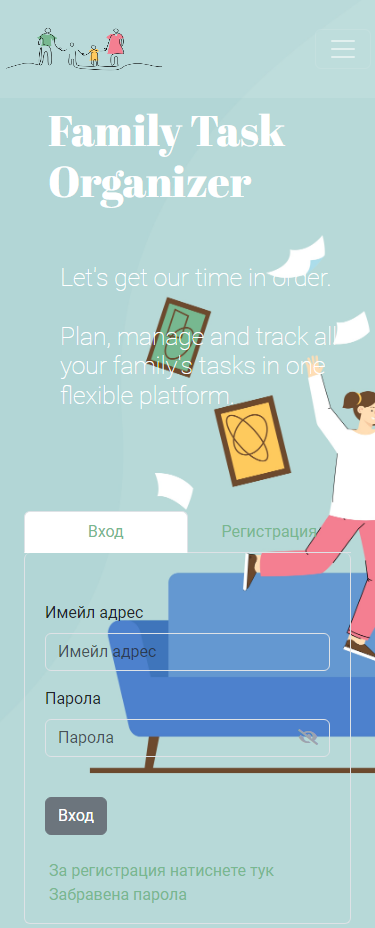
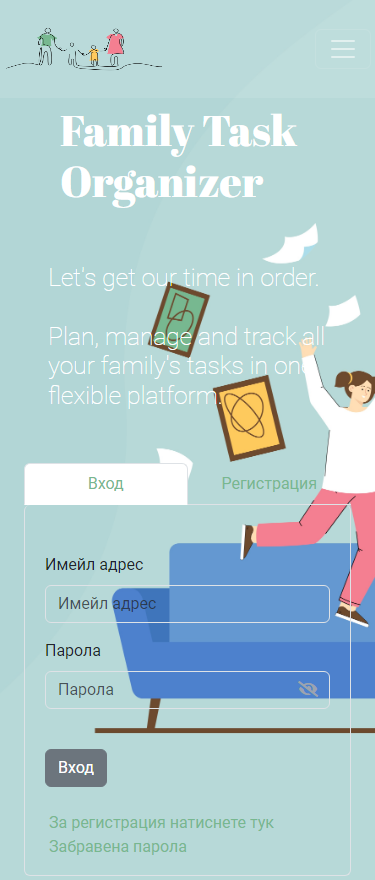
pictures

diff --git a/rest-client/src/components/Home/Home.js b/rest-client/src/components/Home/Home.js
@@ -20,7 +20,7 @@ export const Home = () => {
       <Row>
         <Col className='mt-lg-5 pt-lg-5 mt-2'>
           <Row
-            className='mt-lg-5 pt-5'
+            className='mt-lg-5 pt-5 m-auto'
             style={{
               minHeight: "30vh",
             }}>
@@ -29,17 +29,16 @@ export const Home = () => {
             </h1>
           </Row>
           <Row
-            className='ps-5 '
             style={{
               minHeight: "30vh",
             }}>
-            <h2 className='info'>
+            <h2 className='info px-5'>
               Let's get our time in order. <br /> <br /> Plan, manage and track
               all your family's tasks in one flexible platform.
             </h2>
           </Row>
         </Col>
-        <Col className='mt-lg-5 pt-5'>
+        <Col className='mt-lg-5 pt-lg-5 pt-sm-3'>
           <AuthTab></AuthTab>
         </Col>
       </Row>
